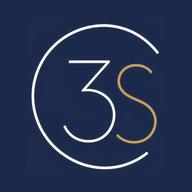
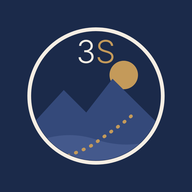
3S Movimento: novos cartões, frase do dia, desafio da semana e novo ícone
Claude-Session: https://claude.ai/code/session_01Am6PjSWucrPc6zyvRAorW9

Changed region(s): [[0.125, 0.125, 0.875, 0.9062]]

diff --git a/public/movimento/index.html b/public/movimento/index.html
@@ -224,7 +224,7 @@
   .opt-grid button{border:1.5px solid var(--line); background:var(--card); border-radius:12px; padding:10px 4px; font-size:13px; cursor:pointer; color:var(--ink);}
   .opt-grid button.on{background:var(--navy); color:#fff; border-color:var(--navy);}
 
-  .hub{display:grid; grid-template-columns:1fr 1fr; gap:10px; margin-bottom:12px;}
+  .hub{display:grid; grid-template-columns:1fr 1fr; gap:10px; margin-bottom:12px; align-items:stretch;}
   .hub-card{background:var(--card); border:none; box-shadow:0 3px 12px var(--shadow); border-radius:var(--radius); padding:14px; text-align:left; cursor:pointer; color:var(--ink); display:flex; flex-direction:column; gap:8px; min-height:132px;}
   .hub-card.wide{grid-column:1 / -1; min-height:0; flex-direction:row; align-items:center;}
   .hub-card .hi{width:40px; height:40px; border-radius:13px; display:flex; align-items:center; justify-content:center; flex-shrink:0;}
@@ -244,6 +244,48 @@
   .toggle-row input{width:auto; margin:0; accent-color:var(--navy); transform:scale(1.25);}
   .note{background:var(--coral-soft); border-radius:16px; padding:12px 14px; margin-bottom:12px; font-size:14px; line-height:1.5;}
   .note .from{font-size:11.5px; font-weight:600; color:#8A6430; margin-bottom:3px;}
+
+  /* Cartões v2, frase do dia, desafio */
+  nav.bottom .ic svg{width:22px; height:22px; display:block;}
+  .action .ic svg{width:22px; height:22px;}
+  .action.free .ic{color:var(--mint);} .action.create .ic{color:var(--coral);}
+  .hc{position:relative; overflow:hidden; background:var(--card); border-radius:22px; padding:14px 14px 12px; box-shadow:0 3px 12px var(--shadow); cursor:pointer; display:flex; flex-direction:column; gap:10px; min-height:168px; color:var(--ink); transition:transform .15s;}
+  .hc:active{transform:scale(.98);}
+  .hc::before{content:''; position:absolute; right:-28px; top:-28px; width:96px; height:96px; border-radius:50%; background:var(--tone-soft); opacity:.9;}
+  .hc.wide{grid-column:1 / -1; min-height:0;}
+  .hc-top{display:flex; align-items:center; gap:9px; position:relative;}
+  .hc-ico{width:34px; height:34px; border-radius:11px; background:var(--tone); color:#fff; display:flex; align-items:center; justify-content:center; flex-shrink:0;}
+  .hc-ico svg{width:19px; height:19px;}
+  .hc-lbl{font-family:'Baloo 2',sans-serif; font-weight:600; font-size:15px; line-height:1.15; flex:1; min-width:0;}
+  .hc-go{font-size:22px; color:var(--tone); line-height:1; opacity:.7;}
+  .hc-body{position:relative; display:flex; flex-direction:column; gap:5px;}
+  .hc-metric{font-family:'Baloo 2',sans-serif; font-weight:700; font-size:27px; line-height:1; color:var(--tone);}
+  .hc-metric small{font-size:13px; font-weight:600; color:var(--ink-soft); margin-left:2px;}
+  .hc-sub{font-size:12.5px; color:var(--ink-soft); line-height:1.35;}
+  .hc-bar{height:7px; border-radius:6px; background:var(--tone-soft, var(--line)); overflow:hidden; flex:1;}
+  .hc-bar span{display:block; height:100%; border-radius:6px; background:var(--tone, var(--gold)); transition:width .4s;}
+  .hc-dots{display:flex; gap:6px; margin-top:4px; flex-wrap:wrap;}
+  .hc-dot{width:26px; height:26px; border-radius:50%; border:1.5px solid var(--tone-soft); background:var(--card); color:var(--ink-soft); font-size:11px; font-weight:600; display:flex; align-items:center; justify-content:center;}
+  .hc-dot.on{background:var(--tone); border-color:var(--tone); color:#fff;}
+  .hc-dot.today{border-color:var(--gold); border-width:2px;}
+  .hc-act{position:relative; margin-top:auto; align-self:flex-start; border:none; border-radius:999px; padding:7px 13px; font-size:12.5px; font-weight:600; background:var(--tone-soft); color:var(--tone); cursor:pointer; font-family:inherit;}
+  .quote{display:flex; gap:10px; align-items:flex-start; background:var(--card); border-radius:var(--radius); padding:14px 16px; margin-bottom:12px; box-shadow:0 3px 12px var(--shadow); border-left:4px solid var(--gold);}
+  .q-mark{font-family:'Baloo 2',serif; font-size:44px; line-height:.8; color:var(--gold); margin-top:2px;}
+  .q-txt{font-family:'Baloo 2',sans-serif; font-size:16.5px; font-weight:600; line-height:1.3; color:var(--ink); text-wrap:balance;}
+  .q-by{font-size:11px; letter-spacing:1.2px; text-transform:uppercase; color:var(--ink-soft); margin-top:4px;}
+  .challenge{--tone:#B3843F; --tone-soft:#F2E5D1; background:linear-gradient(0deg, var(--card), var(--card)); border:1.5px solid #EAD7B8; border-radius:var(--radius); padding:14px 16px; margin-bottom:12px; box-shadow:0 3px 12px var(--shadow);}
+  .challenge.done{--tone:#4F8466; --tone-soft:#E2EDE5; border-color:#BFD9C8;}
+  .ch-top{display:flex; justify-content:space-between; gap:8px; align-items:center;}
+  .ch-eyebrow{font-size:11px; letter-spacing:1.2px; text-transform:uppercase; color:var(--tone); font-weight:600;}
+  .ch-days{font-size:12px; color:var(--ink-soft); flex-shrink:0;}
+  .ch-title{font-family:'Baloo 2',sans-serif; font-weight:700; font-size:19px; margin:4px 0 2px;}
+  .ch-desc{font-size:13.5px; color:var(--ink-soft); line-height:1.4;}
+  .ch-prog{display:flex; align-items:center; gap:10px; margin:10px 0 2px;}
+  .ch-count{font-weight:600; font-size:13px; flex-shrink:0;}
+  .ch-actions{display:flex; gap:8px; margin-top:10px; flex-wrap:wrap;}
+  .ch-btn{border:none; border-radius:999px; padding:8px 14px; font-size:13px; font-weight:600; background:var(--tone); color:#fff; cursor:pointer; font-family:inherit;}
+  .ch-btn.ghost{background:var(--tone-soft); color:var(--tone);}
+  .ch-btn:disabled{opacity:.6; cursor:default;}
 
   /* Mapa */
   #mapBox{height:calc(100vh - 330px); min-height:360px; border-radius:var(--radius); overflow:hidden; box-shadow:0 3px 12px var(--shadow); margin-bottom:12px; z-index:1; position:relative;}
@@ -339,6 +381,7 @@
   <main>
     <!-- INÍCIO -->
     <section id="v-inicio" class="active">
+      <div id="fraseDia"></div>
       <div class="card">
         <div class="row" style="margin-bottom:10px;">
           <h3 style="margin:0;">Meta desta semana</h3>
@@ -351,12 +394,14 @@
         <div class="bar-bg"><div class="bar-fill" id="wkBar" style="width:0%"></div></div>
       </div>
 
+      <div id="desafioHome"></div>
+
       <div class="actions">
         <button class="action free" onclick="openFree()">
-          <span class="ic">🟢</span><span class="t">Estou livre</span><span class="s">Diz quando podes e encontra companhia</span>
+          <span class="ic"><svg viewBox="0 0 24 24" fill="none" stroke="currentColor" stroke-width="1.9" stroke-linecap="round" stroke-linejoin="round"><rect x="3" y="5" width="18" height="16" rx="3"/><path d="M3 10h18M8 3v4M16 3v4M9 15l2 2 4-4"/></svg></span><span class="t">Estou livre</span><span class="s">Diz quando podes e encontra companhia</span>
         </button>
         <button class="action create" onclick="openCreate()">
-          <span class="ic">➕</span><span class="t">Criar encontro</span><span class="s">Marca dia, hora e ponto de encontro</span>
+          <span class="ic"><svg viewBox="0 0 24 24" fill="none" stroke="currentColor" stroke-width="1.9" stroke-linecap="round" stroke-linejoin="round"><circle cx="12" cy="12" r="9"/><path d="M12 8v8M8 12h8"/></svg></span><span class="t">Criar encontro</span><span class="s">Marca dia, hora e ponto de encontro</span>
         </button>
       </div>
 
@@ -374,8 +419,8 @@
     <section id="v-encontros">
       <div class="chips" id="sportFilter"></div>
       <div class="actions">
-        <button class="action free" onclick="openFree()"><span class="ic">🟢</span><span class="t">Estou livre</span><span class="s">Quem está disponível</span></button>
-        <button class="action create" onclick="openCreate()"><span class="ic">➕</span><span class="t">Criar encontro</span><span class="s">Novo encontro</span></button>
+        <button class="action free" onclick="openFree()"><span class="ic"><svg viewBox="0 0 24 24" fill="none" stroke="currentColor" stroke-width="1.9" stroke-linecap="round" stroke-linejoin="round"><rect x="3" y="5" width="18" height="16" rx="3"/><path d="M3 10h18M8 3v4M16 3v4M9 15l2 2 4-4"/></svg></span><span class="t">Estou livre</span><span class="s">Quem está disponível</span></button>
+        <button class="action create" onclick="openCreate()"><span class="ic"><svg viewBox="0 0 24 24" fill="none" stroke="currentColor" stroke-width="1.9" stroke-linecap="round" stroke-linejoin="round"><circle cx="12" cy="12" r="9"/><path d="M12 8v8M8 12h8"/></svg></span><span class="t">Criar encontro</span><span class="s">Novo encontro</span></button>
       </div>
       <div id="meetList"></div>
       <div class="card">
@@ -414,6 +459,7 @@
       <!-- PAINEL -->
       <div id="treinoHub">
         <div id="todayCard"></div>
+        <div id="desafioPT"></div>
         <div class="hub" id="hubGrid"></div>
         <div id="hubCoach"></div>
       </div>
@@ -517,11 +563,11 @@
   </main>
 
   <nav class="bottom">
-    <button data-v="inicio" class="on" onclick="goView('inicio')"><span class="ic">🏠</span>Início</button>
-    <button data-v="encontros" onclick="goView('encontros')"><span class="ic">🤝</span>Encontros</button>
-    <button data-v="mapa" onclick="goView('mapa')"><span class="ic">🗺</span>Mapa</button>
-    <button data-v="treino" onclick="goView('treino')"><span class="ic">💪</span>PT 3S</button>
-    <button data-v="perfil" onclick="goView('perfil')"><span class="ic">👤</span>Perfil</button>
+    <button data-v="inicio" class="on" onclick="goView('inicio')"><span class="ic"><svg viewBox="0 0 24 24" fill="none" stroke="currentColor" stroke-width="1.9" stroke-linecap="round" stroke-linejoin="round"><path d="M3 11l9-7 9 7"/><path d="M5 10v10h14V10"/><path d="M10 20v-6h4v6"/></svg></span>Início</button>
+    <button data-v="encontros" onclick="goView('encontros')"><span class="ic"><svg viewBox="0 0 24 24" fill="none" stroke="currentColor" stroke-width="1.9" stroke-linecap="round" stroke-linejoin="round"><circle cx="8" cy="8" r="3"/><circle cx="16" cy="8" r="3"/><path d="M2.5 19c.6-3 2.8-5 5.5-5s4.9 2 5.5 5M12.5 15.2c.9-.8 2.1-1.2 3.5-1.2 2.7 0 4.9 2 5.5 5"/></svg></span>Encontros</button>
+    <button data-v="mapa" onclick="goView('mapa')"><span class="ic"><svg viewBox="0 0 24 24" fill="none" stroke="currentColor" stroke-width="1.9" stroke-linecap="round" stroke-linejoin="round"><path d="M9 4L3 6v14l6-2 6 2 6-2V4l-6 2z"/><path d="M9 4v14M15 6v14"/></svg></span>Mapa</button>
+    <button data-v="treino" onclick="goView('treino')"><span class="ic"><svg viewBox="0 0 24 24" fill="none" stroke="currentColor" stroke-width="1.9" stroke-linecap="round" stroke-linejoin="round"><path d="M6.5 6.5v11M3.5 9v6M17.5 6.5v11M20.5 9v6M6.5 12h11"/></svg></span>PT 3S</button>
+    <button data-v="perfil" onclick="goView('perfil')"><span class="ic"><svg viewBox="0 0 24 24" fill="none" stroke="currentColor" stroke-width="1.9" stroke-linecap="round" stroke-linejoin="round"><circle cx="12" cy="8" r="4"/><path d="M4 21c1-4 4.2-6 8-6s7 2 8 6"/></svg></span>Perfil</button>
   </nav>
 </div>
 
@@ -685,7 +731,7 @@ function upcoming(){ return S.meets.filter(m=>!isPast(m)).sort((a,b)=>(a.date+a.
 function renderAll(){
   if(!S) return;
   document.getElementById('greet').textContent = 'Olá, '+S.me.name.split(' ')[0];
-  renderWeek(); renderHome(); renderMeets(); renderLogs(); renderProfile(); renderTreino(); renderPlanoCard();
+  renderWeek(); renderHome(); renderMeets(); renderLogs(); renderProfile(); renderTreino(); renderPlanoCard(); renderMotiv();
 }
 function weekLogs(){ const ws=weekStart(); return S.logs.filter(l=>parseDate(l.date)>=ws); }
 function renderWeek(){
@@ -2039,7 +2085,7 @@ loadAll = async function(){
     q(sb.from('mov_ia_uso').select('tipo,created_at').gte('created_at', new Date(new Date().setUTCHours(0,0,0,0)).toISOString())),
     q(sb.from('mov_planos').select('*').eq('ativo', true).order('ordem')),
     q(sb.from('mov_pedidos_plano').select('*').order('created_at', {ascending:false})),
-    q(sb.from('mov_estado').select('user_id,plano_alimentar').eq('user_id', ME)),
+    q(sb.from('mov_estado').select('user_id,plano_alimentar,desafios').eq('user_id', ME)),
   ]);
   const meuPerfil = await q(sb.from('mov_perfis').select('plano').eq('user_id', ME).maybeSingle());
   S.nutri = nutri.find(n=>n.user_id===ME) || null;
@@ -2049,6 +2095,7 @@ loadAll = async function(){
   S.meuPlano = (meuPerfil && meuPerfil.plano) || 'gratis';
   S.pedidos = pedidos;
   S.mealPlan = (est[0] && est[0].plano_alimentar) || null;
+  S.desafios = (est[0] && est[0].desafios) || {};
   (S.athletes||[]).forEach(a=>{ a.nutri = nutri.find(n=>n.user_id===a.id) || null; a.meals = refs.filter(r=>r.user_id===a.id); });
   if(IS_MOD){
     const ids=[...new Set(pedidos.map(p=>p.user_id))];
@@ -2381,6 +2428,229 @@ function athleteNutriHtml(a){
     <div class="card"><div class="list-row"><span class="muted">Alergias e intolerâncias</span><span style="text-align:right;">${esc([...(a.nutri.alergias||[]),...(a.nutri.intolerancias||[])].join(', ')||'Nenhuma')}</span></div>
       <div class="list-row"><span class="muted">Condições de saúde</span><span style="text-align:right;">${esc((a.nutri.condicoes||[]).join(', ')||'Nenhuma')}</span></div></div>
     <div class="card"><h3>Últimas refeições</h3>${ult.length?ult.map(m=>mealRow(m,false).replace('<div style="font-weight:600;">',`<div style="font-weight:600;">${niceDate(m.data)} · `)).join(''):'<div class="empty" style="padding:10px;">Sem refeições registadas.</div>'}</div>`;
+}
+
+/* =========================================================
+   CARTÕES DO PAINEL PT 3S (versão 2): número em destaque,
+   progresso e ação direta em cada cartão
+   ========================================================= */
+const TONS = {
+  plano:   ['#1B2A4A','#E7EAF1'],
+  nutricao:['#A8772F','#F4E7D3'],
+  corpo:   ['#6A4C8A','#EFE7F6'],
+  saude:   ['#3F7A5A','#E1EEE6'],
+  mente:   ['#3D6A8F','#E3EDF6'],
+  coaching:['#B5603E','#F7E4DA'],
+  atletas: ['#1B2A4A','#E7EAF1'],
+};
+function hc(key, o){
+  const [tone, soft] = TONS[key];
+  return `<div class="hc ${o.wide?'wide':''}" role="button" tabindex="0" style="--tone:${tone}; --tone-soft:${soft};" onclick="openPane('${key}')" onkeydown="if(event.key==='Enter')openPane('${key}')">
+    <div class="hc-top"><span class="hc-ico">${ICONS[key]}</span><span class="hc-lbl">${o.title}</span><span class="hc-go" aria-hidden="true">›</span></div>
+    <div class="hc-body">
+      ${o.metric!=null?`<div class="hc-metric num">${o.metric}${o.unit?`<small>${o.unit}</small>`:''}</div>`:''}
+      ${o.sub?`<div class="hc-sub">${o.sub}</div>`:''}
+      ${o.extra||''}
+    </div>
+    ${o.act?`<button class="hc-act" onclick="event.stopPropagation(); ${o.actFn}">${o.act}</button>`:''}
+  </div>`;
+}
+function miniBar(pct){ return `<div class="hc-bar"><span style="width:${Math.max(0,Math.min(100,pct))}%"></span></div>`; }
+
+function renderHub(){
+  const plan=buildPlan(S.goal, S.logs), today=addDays(0);
+  const todays=plan.flatMap(w=>w.sessions).filter(s=>s.date===today);
+
+  // cartão de hoje (destaque)
+  let tc='';
+  if(todays.length){
+    const s=todays[0], ok=sessionDone(s,S.planDone,S.logs);
+    tc = `<div class="goal-top"><div class="eyebrow">Treino de hoje</div><h2>${esc(s.title)}</h2><div style="font-size:13px; opacity:.85; position:relative; z-index:1;">${esc(s.desc)}</div>
+      <div style="display:flex; gap:8px; margin-top:12px; position:relative; z-index:1;"><button class="primary small" style="background:var(--gold);" onclick="doSession('${s.key}')">${ok?'Feito ✓':'Marcar como feito'}</button><button class="ghost small" style="color:#fff; border-color:rgba(255,255,255,.3);" onclick="openPane('plano')">Ver plano</button></div></div>`;
+  } else if(!S.goal && !isCoach()){
+    tc = `<div class="goal-top"><div class="eyebrow">O teu PT online</div><h2>Qual é o teu objetivo?</h2><div style="font-size:13px; opacity:.85; position:relative; z-index:1;">Uma prova ou ganhar forma. A app cria o teu plano de treino semana a semana.</div><button class="primary small" style="background:var(--gold); margin-top:12px;" onclick="openGoalForm()">Definir objetivo</button></div>`;
+  }
+  document.getElementById('todayCard').innerHTML = tc;
+
+  let cards='';
+  // coach: atletas
+  if(isCoach()){
+    const pend=(S.pedidos||[]).filter(p=>p.estado==='pendente').length;
+    cards+=hc('atletas',{wide:true, title:'Os meus atletas', metric:(S.athletes||[]).length, unit:' atletas',
+      sub: pend? `${pend} ${pend===1?'pedido de plano':'pedidos de plano'} à espera` : 'Planos, treinos e alimentação de cada atleta', act:'Ver atletas', actFn:"openPane('atletas')"});
+  }
+
+  // plano de treino (largo): pontos da semana
+  if(S.goal){
+    const wi=Math.max(0,currentWeek(plan)), wk=plan[wi]||{sessions:[]};
+    const feitos=wk.sessions.filter(s=>sessionDone(s,S.planDone,S.logs)).length;
+    const prox=wk.sessions.find(s=>s.date>=today && !sessionDone(s,S.planDone,S.logs));
+    const dots=`<div class="hc-dots">${wk.sessions.map(s=>{ const d=parseDate(s.date); return `<span class="hc-dot ${sessionDone(s,S.planDone,S.logs)?'on':''} ${s.date===today?'today':''}" title="${esc(s.title)}">${WD[(d.getDay()+6)%7].slice(0,1)}</span>`; }).join('')}</div>`;
+    const quando = S.goal.type==='prova' ? `${daysUntil(S.goal.date)} dias para ${esc(S.goal.name)}` : `Semana ${wi+1} de ${plan.length}`;
+    cards+=hc('plano',{wide:true, title:'Plano de treino', metric:`${feitos}/${wk.sessions.length}`, unit:' esta semana',
+      sub: `${quando}${prox?` · Próximo: ${esc(prox.title)}`:''}`, extra:dots, act:'Ver semana', actFn:"openPane('plano')"});
+  } else {
+    cards+=hc('plano',{wide:true, title:'Plano de treino', sub:'Diz qual é o teu objetivo e a app cria o plano para ti.', act:'Definir objetivo', actFn:'openGoalForm()'});
+  }
+
+  // nutrição
+  const kHoje=somar(mealsDoDia(S.meals||[], today)).kcal, aN=S.nutri? nutriAlvo(S.nutri,S.body):null;
+  if(!S.nutri) cards+=hc('nutricao',{title:'Nutrição', sub:'Fotografa o prato e vê as calorias.', act:'Começar', actFn:"openPane('nutricao')"});
+  else cards+=hc('nutricao',{title:'Nutrição', metric:Math.round(kHoje), unit: aN&&aN.kcal? ` / ${aN.kcal}`:' kcal',
+    sub: aN&&aN.kcal? (kHoje<=aN.kcal? `Faltam ${Math.round(aN.kcal-kHoje)} kcal hoje` : `Mais ${Math.round(kHoje-aN.kcal)} kcal hoje`) : 'kcal hoje',
+    extra: aN&&aN.kcal? miniBar(kHoje/aN.kcal*100) : '', act:'📷 Prato', actFn:"openPane('nutricao'); startMealPhoto()"});
+
+  // corpo
+  const pesos=[...(S.body||[])].filter(b=>b.weight).sort((a,b)=>a.date.localeCompare(b.date));
+  const ult=pesos[pesos.length-1], dif= pesos.length>1 ? ult.weight-pesos[0].weight : null;
+  cards+=hc('corpo',{title:'Corpo', metric: ult? nm(ult.weight):null, unit: ult?' kg':'',
+    sub: ult? (dif!==null && Math.abs(dif)>=0.1 ? `${dif>0?'+':''}${nm(dif)} kg desde o início` : `Registado ${niceDate(ult.date).toLowerCase()}`) : 'Peso, massa muscular e medidas',
+    act:'+ Peso', actFn:'openBody()'});
+
+  // saúde
+  const hHoje=(S.health||[]).find(h=>h.date===today), lastH=[...(S.health||[])].sort((a,b)=>b.date.localeCompare(a.date))[0];
+  cards+=hc('saude',{title:'Saúde', metric: lastH&&lastH.sleep? nm(lastH.sleep):null, unit: lastH&&lastH.sleep?' h sono':'',
+    sub: hHoje? `Energia ${hHoje.energy}/5${hHoje.pain?' · com dor':''}` : 'Como dormiste? Como estás?',
+    act: hHoje? 'Atualizar':'Registar dia', actFn:'openHealth()'});
+
+  // mente
+  const mHoje=(S.mind||[]).find(m=>m.date===today);
+  cards+=hc('mente',{title:'Mente', metric: mHoje? FEELINGS[mHoje.mood-1] : null,
+    sub: mHoje? 'O teu humor de hoje' : 'Como te sentes hoje?', act:'Respirar 2 min', actFn:"openPane('mente')"});
+
+  // sessões de coaching (largo)
+  const next=(S.sessions||[]).filter(s=>s.date>=today).sort((a,b)=>(a.date+a.time).localeCompare(b.date+b.time))[0];
+  cards+=hc('coaching',{wide:true, title:'Sessões de coaching',
+    metric: next? `${niceDate(next.date)}`:null, unit: next? ` · ${esc(next.time)}`:'',
+    sub: next? `${esc(next.type)} · ${esc(next.mode)}${next.status==='pedida'?' · à espera de confirmação':''}` : (isCoach()? 'A tua agenda de sessões' : `Com o coach ${esc(COACH.name)}`),
+    act: isCoach()? 'Marcar sessão' : (next? 'Ver sessões':'Marcar sessão'), actFn: next&&!isCoach()? "openPane('coaching')" : 'openSession()'});
+
+  document.getElementById('hubGrid').innerHTML=cards;
+  document.getElementById('hubCoach').innerHTML = isCoach() ? '' : coachCardHtml();
+}
+
+/* =========================================================
+   FRASE DO DIA e DESAFIO DA SEMANA
+   ========================================================= */
+const FRASES = [
+  ['Ser','Não precisas de ser rápida/o. Precisas de aparecer.'],
+  ['Sentir','O corpo agradece cada passo que lhe dás hoje.'],
+  ['Saber','Pequenos treinos repetidos valem mais do que um treino perfeito.'],
+  ['Ser','A disciplina é lembrares-te do que queres quando te apetece desistir.'],
+  ['Sentir','Respira fundo. Começar devagar também é começar.'],
+  ['Saber','Descansar faz parte do plano. É aí que o corpo fica mais forte.'],
+  ['Ser','Hoje, compete só com quem eras ontem.'],
+  ['Sentir','Repara no que o teu corpo já consegue fazer, não só no que lhe falta.'],
+  ['Saber','Um trilho conhece-se passo a passo, não de uma só vez.'],
+  ['Ser','A pessoa que vai à prova é construída nos treinos que ninguém vê.'],
+  ['Sentir','Treinar com outras pessoas transforma o esforço em alegria.'],
+  ['Saber','Hidratação, sono e comida a horas: o treino que não se vê.'],
+  ['Ser','Não esperes pela motivação. Começa, e ela aparece pelo caminho.'],
+  ['Sentir','Cansaço bom é aquele que te deixa orgulhosa/o de ti.'],
+  ['Saber','Ouve o teu corpo: dor não é fraqueza, é informação.'],
+  ['Ser','Cada "não me apetece" que vences é uma vitória sobre ti.'],
+  ['Sentir','Um sorriso a meio da subida torna-a mais leve.'],
+  ['Saber','Consistência bate intensidade. Sempre.'],
+  ['Ser','Tu decides o ritmo. O importante é não parares de caminhar.'],
+  ['Sentir','Agradece às tuas pernas: levam-te a sítios incríveis.'],
+  ['Saber','Planear o treino de amanhã hoje é meio caminho andado.'],
+  ['Ser','Liderar começa por ti: pelo exemplo que dás a ti própria/o.'],
+  ['Sentir','A natureza é o melhor ginásio e o melhor terapeuta.'],
+  ['Saber','Mais vale um treino curto feito do que um longo adiado.'],
+  ['Ser','Acreditar em ti também se treina.'],
+  ['Sentir','Celebra as pequenas conquistas. Elas somam-se.'],
+  ['Saber','O progresso não é uma linha reta. Os dias maus também contam.'],
+  ['Ser','Comprometer-te contigo é a promessa mais importante.'],
+  ['Sentir','Movimento é energia. Mexe-te e sente a diferença.'],
+  ['Saber','Aquecer bem é a melhor forma de evitar lesões.'],
+  ['Ser','Ninguém treina sozinho. Hoje, convida alguém.'],
+];
+function fraseDoDia(){
+  const d=new Date(); const n=Math.floor((Date.UTC(d.getFullYear(),d.getMonth(),d.getDate()) - Date.UTC(2026,0,1))/864e5);
+  return FRASES[((n % FRASES.length)+FRASES.length)%FRASES.length];
+}
+
+const DESAFIOS = [
+  {id:'treinos3', pilar:'Ser', titulo:'3 treinos esta semana', desc:'Regista pelo menos 3 treinos, de qualquer modalidade.', medida:'treinos', meta:3},
+  {id:'km15', pilar:'Ser', titulo:'15 km na semana', desc:'Soma 15 km entre caminhadas, corridas, trilhos ou bike.', medida:'km', meta:15},
+  {id:'grupo1', pilar:'Sentir', titulo:'Treinar em grupo', desc:'Vai a um encontro e regista-o como treino.', medida:'encontros', meta:1},
+  {id:'sono5', pilar:'Saber', titulo:'Dormir bem 5 noites', desc:'Regista 5 noites com 7 horas de sono ou mais.', medida:'sono', meta:5},
+  {id:'humor7', pilar:'Sentir', titulo:'Uma semana a ouvir-te', desc:'Regista como te sentes todos os dias da semana.', medida:'humor', meta:7},
+  {id:'refeicoes5', pilar:'Saber', titulo:'Comer com atenção', desc:'Regista as refeições em 5 dias da semana.', medida:'refeicoes', meta:5},
+  {id:'agua5', pilar:'Saber', titulo:'1,5 L de água por dia', desc:'Marca os dias em que bebeste pelo menos 1,5 litros de água.', medida:'manual', meta:5},
+  {id:'forca2', pilar:'Ser', titulo:'Força 2 vezes', desc:'Faz 2 treinos de força (agachamentos, pranchas, pontes).', medida:'manual', meta:2},
+  {id:'gratidao5', pilar:'Sentir', titulo:'Gratidão depois do treino', desc:'Em 5 dias, escreve uma coisa boa do teu treino ou do teu dia.', medida:'manual', meta:5},
+  {id:'semrelogio', pilar:'Sentir', titulo:'Um treino sem relógio', desc:'Faz um treino só pelo prazer, sem olhar para o tempo nem para o ritmo.', medida:'manual', meta:1},
+  {id:'convidar', pilar:'Ser', titulo:'Convida alguém', desc:'Traz uma pessoa nova para um encontro ou para treinar contigo.', medida:'manual', meta:1},
+  {id:'alongar5', pilar:'Saber', titulo:'Alongar 5 dias', desc:'10 minutos de alongamentos em 5 dias da semana.', medida:'manual', meta:5},
+  {id:'zonaconforto', pilar:'Ser', titulo:'Sair da zona de conforto', desc:'Experimenta uma modalidade ou um trilho onde nunca foste.', medida:'manual', meta:1},
+  {id:'escadas5', pilar:'Ser', titulo:'Escadas em vez do elevador', desc:'Marca os dias em que trocaste o elevador pelas escadas.', medida:'manual', meta:5},
+  {id:'natureza', pilar:'Sentir', titulo:'Um treino na natureza', desc:'Faz um treino num trilho, na praia ou à beira-rio, sem auscultadores.', medida:'manual', meta:1},
+  {id:'treinos4', pilar:'Ser', titulo:'4 treinos esta semana', desc:'Desafio para quem já tem ritmo: 4 treinos registados.', medida:'treinos', meta:4},
+];
+function semanaKey(){ return ymd(mondayOf(new Date())); }
+function desafioDaSemana(){
+  const k=semanaKey(), escolhido=(S.desafios||{})[k] && S.desafios[k].id;
+  if(escolhido){ const d=DESAFIOS.find(x=>x.id===escolhido); if(d) return d; }
+  const n=Math.floor((parseDate(k)-Date.UTC(2026,0,5))/(7*864e5));
+  return DESAFIOS[((n % DESAFIOS.length)+DESAFIOS.length)%DESAFIOS.length];
+}
+function progressoDesafio(d){
+  const ws=semanaKey(), fim=ymd(plusDays(parseDate(ws),6)), naSemana=x=>x>=ws && x<=fim;
+  const logs=(S.logs||[]).filter(l=>naSemana(l.date));
+  switch(d.medida){
+    case 'treinos': return logs.length;
+    case 'km': return Math.round(logs.reduce((a,l)=>a+Number(l.km||0),0)*10)/10;
+    case 'encontros': return logs.filter(l=>l.meetId).length;
+    case 'sono': return (S.health||[]).filter(h=>naSemana(h.date) && Number(h.sleep)>=7).length;
+    case 'humor': return (S.mind||[]).filter(m=>naSemana(m.date)).length;
+    case 'refeicoes': return new Set((S.meals||[]).filter(m=>naSemana(m.data)).map(m=>m.data)).size;
+    default: return (((S.desafios||{})[ws]||{}).dias||[]).length;
+  }
+}
+function desafioHtml(compact){
+  const d=desafioDaSemana(), p=progressoDesafio(d), ok=p>=d.meta, pct=Math.min(100,Math.round(p/d.meta*100));
+  const k=semanaKey(), diasMarc=((S.desafios||{})[k]||{}).dias||[], hoje=addDays(0), marcadoHoje=diasMarc.includes(hoje);
+  const fimTxt = (()=>{ const r=6-((new Date().getDay()+6)%7); return r===0?'Último dia':`Faltam ${r} ${r===1?'dia':'dias'}`; })();
+  return `<div class="challenge ${ok?'done':''}">
+    <div class="ch-top"><span class="ch-eyebrow">Desafio da semana · ${d.pilar}</span><span class="ch-days">${ok?'Conseguido! 🎉':fimTxt}</span></div>
+    <div class="ch-title">${esc(d.titulo)}</div>
+    ${compact?'':`<div class="ch-desc">${esc(d.desc)}</div>`}
+    <div class="ch-prog"><div class="hc-bar"><span style="width:${pct}%"></span></div><span class="num ch-count">${nm(p)} / ${d.meta}${d.medida==='km'?' km':''}</span></div>
+    <div class="ch-actions">
+      ${d.medida==='manual' && !ok ? `<button class="ch-btn" onclick="marcarDesafio()" ${marcadoHoje?'disabled':''}>${marcadoHoje?'Marcado hoje ✓':'Fiz hoje'}</button>` : ''}
+      ${!compact?`<button class="ch-btn ghost" onclick="trocarDesafio()">Trocar desafio</button>`:`<button class="ch-btn ghost" onclick="openDesafio()">Ver desafio</button>`}
+    </div>
+  </div>`;
+}
+function openDesafio(){ openSheet('Desafio da semana', desafioHtml(false)+`<p class="tiny" style="text-align:center; margin-top:12px;">Os desafios de treinos, quilómetros, encontros, sono, humor e refeições contam sozinhos com o que registas na app.</p>`); }
+async function saveDesafios(){
+  await q(sb.from('mov_estado').upsert({user_id:ME, objetivo:S.goal, plano_feito:S.planDone||{}, intencoes:S.intentions||{}, meta_km:S.goalKm||15, desafios:S.desafios||{}, updated_at:new Date().toISOString()}));
+}
+async function marcarDesafio(){
+  const k=semanaKey(); S.desafios=S.desafios||{}; const cur=S.desafios[k]||{id:desafioDaSemana().id, dias:[]};
+  cur.id=cur.id||desafioDaSemana().id; cur.dias=[...new Set([...(cur.dias||[]), addDays(0)])]; S.desafios[k]=cur;
+  await saveDesafios(); renderAll(); if(sheetOpen()){ removeSheet(); openDesafio(); }
+  const d=desafioDaSemana(); toast(progressoDesafio(d)>=d.meta?'Desafio conseguido! 🎉':'Boa! Mais um dia');
+}
+function trocarDesafio(){
+  const atual=desafioDaSemana().id;
+  if(sheetOpen()) removeSheet();
+  openSheet('Escolhe o desafio', DESAFIOS.map(d=>`<button class="meet" onclick="escolherDesafio('${d.id}')" style="${d.id===atual?'border:2px solid var(--gold);':''}">
+    <span class="body"><span class="tiny" style="display:block; text-transform:uppercase; letter-spacing:.8px; color:var(--gold);">${d.pilar}</span><span class="t" style="display:block">${esc(d.titulo)}</span><span class="where" style="display:block; white-space:normal;">${esc(d.desc)}</span></span></button>`).join(''));
+}
+async function escolherDesafio(id){
+  const k=semanaKey(); S.desafios=S.desafios||{}; S.desafios[k]={id, dias:[]};
+  await saveDesafios(); closeSheet(); renderAll(); toast('Desafio escolhido');
+}
+function fraseHtml(){
+  const [pilar, txt]=fraseDoDia();
+  return `<div class="quote"><span class="q-mark" aria-hidden="true">“</span><div><div class="q-txt">${esc(txt)}</div><div class="q-by">Frase do dia · ${pilar}</div></div></div>`;
+}
+function renderMotiv(){
+  const f=document.getElementById('fraseDia'); if(f) f.innerHTML=fraseHtml();
+  const c=document.getElementById('desafioHome'); if(c) c.innerHTML=desafioHtml(true);
+  const t=document.getElementById('desafioPT'); if(t) t.innerHTML=desafioHtml(false);
 }
 
 /* ---------- (antigo) apagar ---------- */
